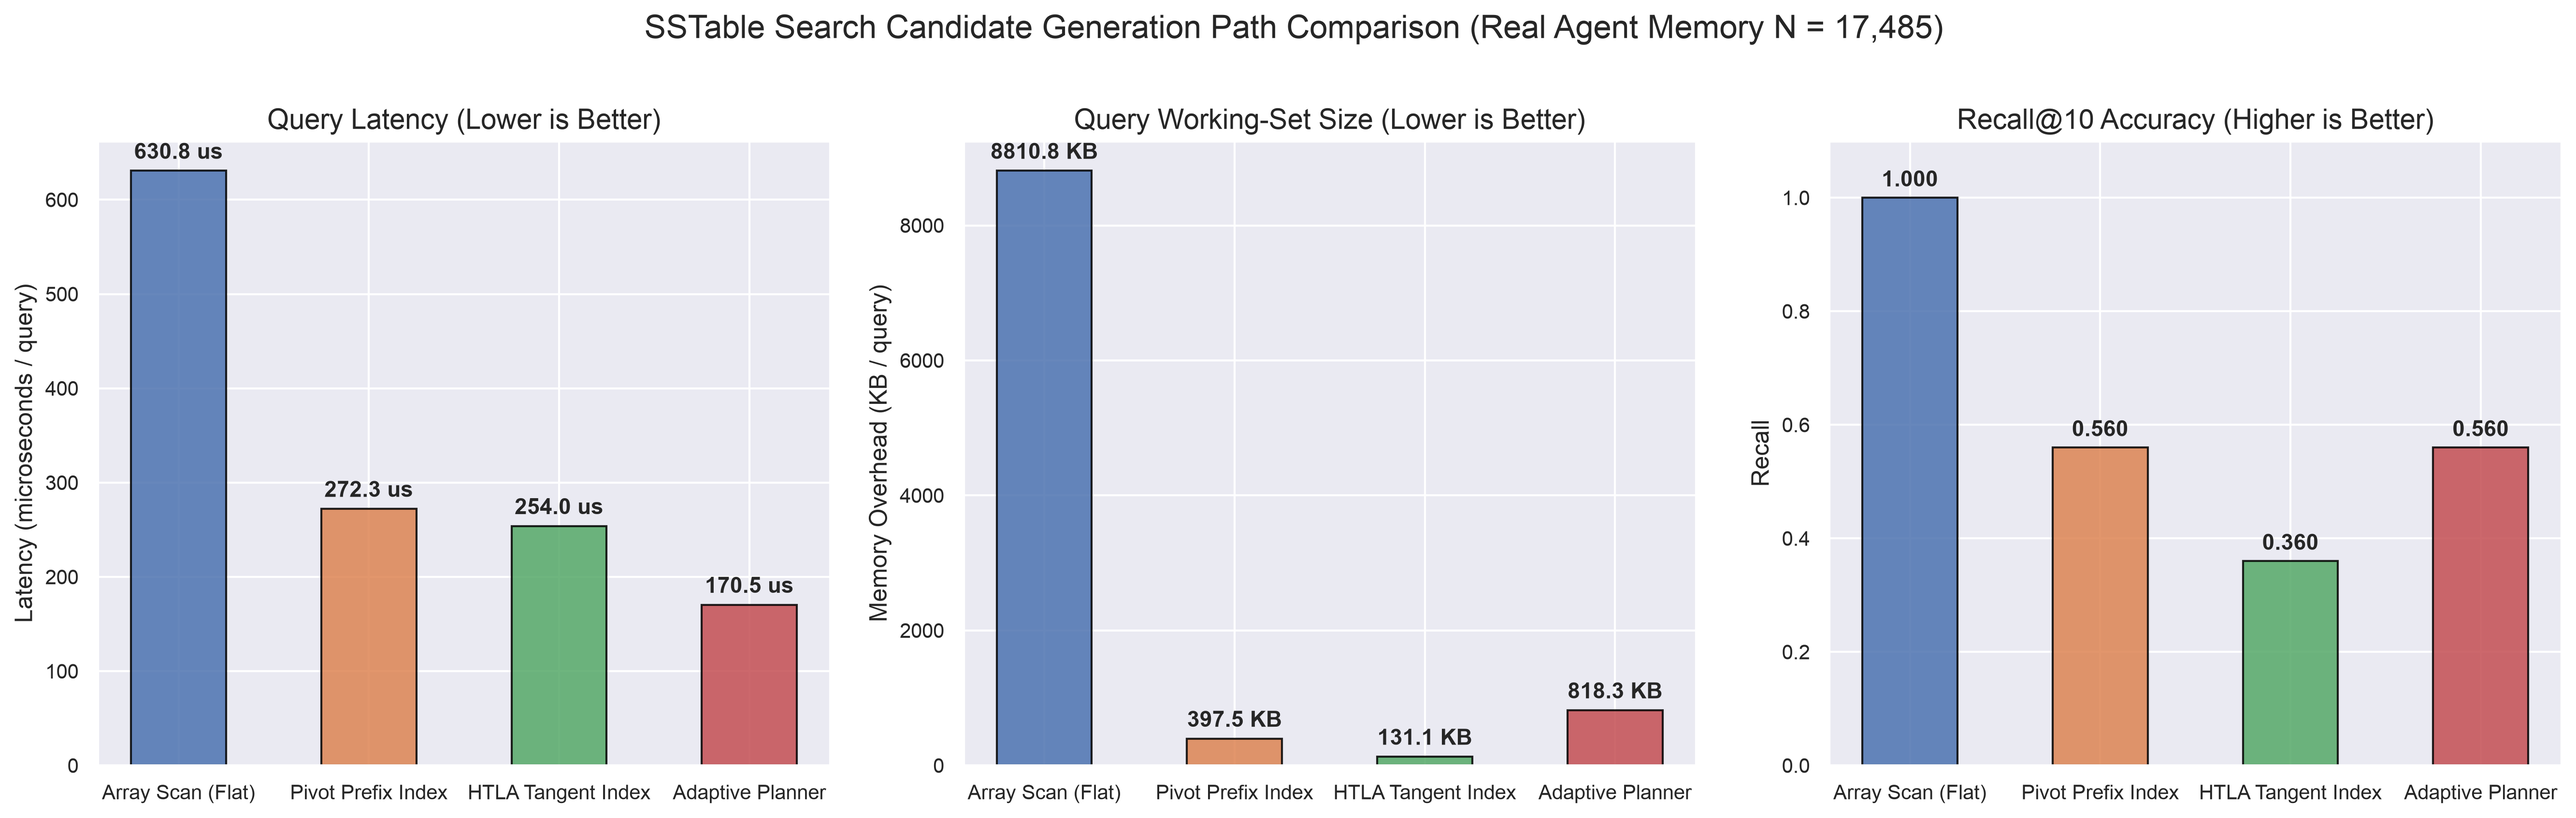
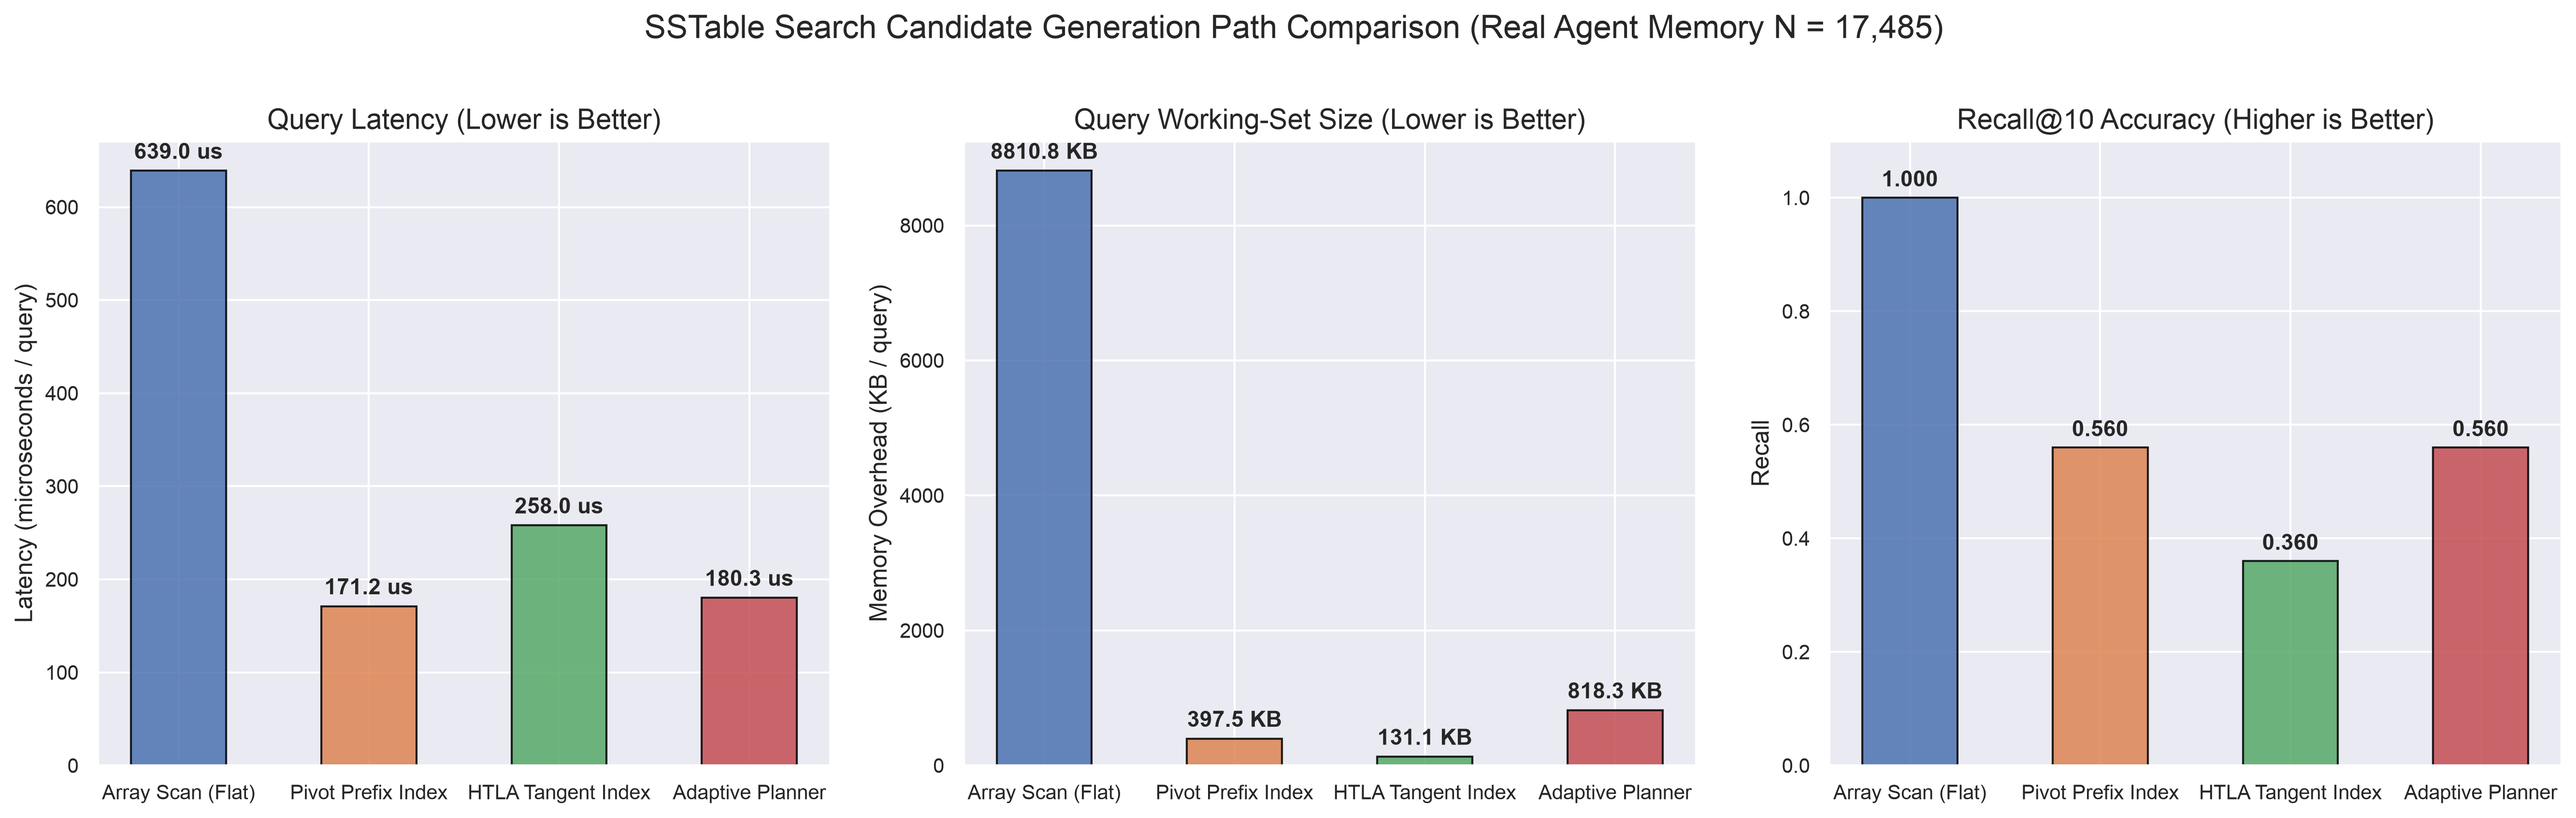
feat(benchmarks): integrate LoCoMo dataset, run benchmarks, and update reports with comparison plots

diff --git a/benchmarks/build_locomo_dataset.py b/benchmarks/build_locomo_dataset.py
@@ -1,0 +1,220 @@
+#!/usr/bin/env python3
+import json
+import os
+import re
+from pathlib import Path
+import numpy as np
+from datetime import datetime
+
+LOCOMO_JSON = Path("/Users/yong/projects/aperon/benchmarks/data/locomo_repo/data/locomo10.json")
+OUT_DIR = Path("/Users/yong/projects/aperon/benchmarks/data/locomo")
+DIM = 128
+
+def parse_locomo_date(date_str):
+    # e.g., "1:56 pm on 8 May, 2023"
+    match = re.search(r'on\s+(.*)', date_str)
+    if match:
+        d_str = match.group(1).strip()
+        # strip any extra whitespaces
+        d_str = re.sub(r'\s+', ' ', d_str)
+        for fmt in ("%d %B, %Y", "%d %b, %Y", "%B %d, %Y", "%b %d, %Y"):
+            try:
+                dt = datetime.strptime(d_str, fmt)
+                return int(dt.timestamp())
+            except Exception:
+                continue
+    return 1683500000  # Fallback to May 2023
+
+def clean_text(text):
+    if not text:
+        return ""
+    return text.strip()
+
+def build_dataset():
+    print("=== STARTING LOCOMO DATASET BUILDER ===")
+    if not LOCOMO_JSON.exists():
+        print(f"Error: LoCoMo json file not found at {LOCOMO_JSON}")
+        return
+
+    with open(LOCOMO_JSON, "r", encoding="utf-8") as f:
+        samples = json.load(f)
+
+    raw_records = []
+    raw_queries = []
+    
+    # Mapping to locate record_id by (scope_id, dia_id)
+    dia_to_record_idx = {}
+    
+    record_counter = 0
+    query_counter = 0
+
+    for sample_idx, sample in enumerate(samples):
+        scope_id = sample_idx + 1  # Map each of the 10 samples to a distinct scope (tenant)
+        conv = sample.get("conversation", {})
+        
+        # 1. Parse all sessions
+        sessions = sorted([k for k in conv.keys() if k.startswith("session_") and not k.endswith("_date_time")])
+        
+        for sess in sessions:
+            date_time_key = f"{sess}_date_time"
+            date_time_str = conv.get(date_time_key, "")
+            ts = parse_locomo_date(date_time_str)
+            
+            utterances = conv[sess]
+            for u in utterances:
+                speaker = u.get("speaker", "")
+                dia_id = u.get("dia_id", "")
+                text = clean_text(u.get("text", ""))
+                
+                if not text:
+                    continue
+                
+                rec = {
+                    "record_id": record_counter,
+                    "scope_id": scope_id,
+                    "timestamp": ts,
+                    "symbols": [f"speaker_{speaker.lower()}", f"sess_{sess}", f"dia_{dia_id.lower().replace(':', '_')}"],
+                    "source_id": 1 if speaker.lower() == "caroline" else 2,
+                    "confidence": 0.95,
+                    "text": text,
+                    "dia_id": dia_id
+                }
+                raw_records.append(rec)
+                dia_to_record_idx[(scope_id, dia_id)] = record_counter
+                record_counter += 1
+
+        # 2. Parse all QA pairs (queries)
+        qas = sample.get("qa", [])
+        for qa in qas:
+            question = clean_text(qa.get("question", ""))
+            evidence = qa.get("evidence", [])
+            category = qa.get("category", 1)
+            
+            if not question:
+                continue
+            
+            # Map evidence dia_ids to actual record_ids
+            expected_ids = []
+            for ev_id in evidence:
+                key = (scope_id, ev_id)
+                if key in dia_to_record_idx:
+                    expected_ids.append(dia_to_record_idx[key])
+            
+            if not expected_ids:
+                # Evidence not found (could be in a pruned session), skip query for benchmarking accuracy
+                continue
+                
+            raw_queries.append({
+                "query_id": query_counter,
+                "scope_id": scope_id,
+                "text": question,
+                "expected_record_ids": expected_ids,
+                "category": category
+            })
+            query_counter += 1
+
+    print(f"Parsed {len(raw_records)} records and {len(raw_queries)} queries.")
+
+    # 3. TF-IDF and Random Projection
+    print("Tokenizing and vectorizing text...")
+    all_texts = [r["text"] for r in raw_records] + [q["text"] for q in raw_queries]
+    
+    stopwords = {"the", "a", "of", "and", "to", "in", "is", "that", "it", "on", "for", "with", "as", "was", "at", "by", "an", "when", "did", "what", "where", "how"}
+    word_to_idx = {}
+    vocab_size = 0
+    tokenized_docs = []
+    
+    for text in all_texts:
+        tokens = [w.lower() for w in re.findall(r'\b[a-zA-Z]{3,15}\b', text)]
+        tokens = [t for t in tokens if t not in stopwords]
+        tokenized_docs.append(tokens)
+        for t in tokens:
+            if t not in word_to_idx:
+                word_to_idx[t] = vocab_size
+                vocab_size += 1
+
+    print(f"Vocabulary Size: {vocab_size}")
+
+    # Compute TF-IDF
+    total_docs = len(all_texts)
+    doc_freq = np.zeros(vocab_size)
+    for doc in tokenized_docs:
+        unique_tokens = set(doc)
+        for ut in unique_tokens:
+            doc_freq[word_to_idx[ut]] += 1
+            
+    idf = np.log((total_docs + 1) / (doc_freq + 1)) + 1.0
+
+    # Build sparse matrix
+    tfidf_matrix = []
+    for doc in tokenized_docs:
+        vec = np.zeros(vocab_size)
+        if len(doc) > 0:
+            for t in doc:
+                vec[word_to_idx[t]] += 1.0
+            vec = vec / len(doc)
+            vec = vec * idf
+            norm = np.linalg.norm(vec)
+            if norm > 0:
+                vec = vec / norm
+        tfidf_matrix.append(vec)
+    
+    tfidf_matrix = np.array(tfidf_matrix)
+
+    # Project to 128-dim
+    print(f"Projecting vectors to {DIM} dimensions...")
+    np.random.seed(1234)  # Deterministic projection
+    projection_matrix = np.random.normal(0.0, 1.0 / np.sqrt(DIM), (vocab_size, DIM))
+    
+    dense_embeddings = np.dot(tfidf_matrix, projection_matrix)
+    
+    embeddings_list = []
+    for i in range(len(dense_embeddings)):
+        norm = np.linalg.norm(dense_embeddings[i])
+        if norm > 0:
+            embeddings_list.append((dense_embeddings[i] / norm).tolist())
+        else:
+            embeddings_list.append(np.zeros(DIM).tolist())
+
+    # Split back to records and queries
+    records_embeddings = embeddings_list[:len(raw_records)]
+    queries_embeddings = embeddings_list[len(raw_records):]
+
+    # Assemble final output
+    final_records = []
+    for idx, r in enumerate(raw_records):
+        final_records.append({
+            "record_id": r["record_id"],
+            "scope_id": r["scope_id"],
+            "timestamp": r["timestamp"],
+            "source_id": r["source_id"],
+            "confidence": r["confidence"],
+            "text": r["text"],
+            "embedding": records_embeddings[idx],
+            "symbols": r["symbols"]
+        })
+
+    final_queries = []
+    for idx, q in enumerate(raw_queries):
+        final_queries.append({
+            "query_id": q["query_id"],
+            "scope_id": q["scope_id"],
+            "text": q["text"],
+            "expected_record_ids": q["expected_record_ids"],
+            "embedding": queries_embeddings[idx],
+            "category": q["category"]
+        })
+
+    OUT_DIR.mkdir(parents=True, exist_ok=True)
+    
+    with open(OUT_DIR / "locomo_records.json", "w", encoding="utf-8") as f:
+        json.dump(final_records, f, indent=2)
+    with open(OUT_DIR / "locomo_queries.json", "w", encoding="utf-8") as f:
+        json.dump(final_queries, f, indent=2)
+
+    print(f"Saved {len(final_records)} records to locomo_records.json")
+    print(f"Saved {len(final_queries)} queries to locomo_queries.json")
+    print("=== LOCOMO DATASET BUILDER COMPLETED ===")
+
+if __name__ == "__main__":
+    build_dataset()

diff --git a/crates/aperon-core/src/bin/memory_sstable_bench.rs b/crates/aperon-core/src/bin/memory_sstable_bench.rs
@@ -236,6 +236,9 @@ fn run() -> Result<(), String> {
     let agent_memory_scenario = load_agent_memory_scenario()?;
     run_scenario(&agent_memory_scenario, &args.out.join("agent-memory"))?;
 
+    let locomo_scenario = load_locomo_scenario()?;
+    run_scenario(&locomo_scenario, &args.out.join("locomo"))?;
+
     Ok(())
 }
 
@@ -1878,6 +1881,90 @@ fn load_agent_memory_scenario() -> Result<Scenario, String> {
         name: "agent-memory".to_string(),
         category: "agent-memory-real",
         description: "real vectorized multi-agent dev logs trajectory scenario",
+        required: false,
+        records,
+        queries,
+    })
+}
+
+fn load_locomo_scenario() -> Result<Scenario, String> {
+    let records_path = Path::new("benchmarks/data/locomo/locomo_records.json");
+    let queries_path = Path::new("benchmarks/data/locomo/locomo_queries.json");
+    if !records_path.exists() || !queries_path.exists() {
+        return Err(format!("LoCoMo dataset files not found under benchmarks/data/locomo/"));
+    }
+    
+    let records_str = std::fs::read_to_string(records_path)
+        .map_err(|err| format!("read locomo records: {err}"))?;
+    let queries_str = std::fs::read_to_string(queries_path)
+        .map_err(|err| format!("read locomo queries: {err}"))?;
+        
+    let json_records: Vec<JsonMemoryRecord> = serde_json::from_str(&records_str)
+        .map_err(|err| format!("parse locomo records: {err}"))?;
+        
+    #[derive(Debug, Deserialize)]
+    struct JsonLocomoQuery {
+        query_id: u64,
+        scope_id: u32,
+        expected_record_ids: Vec<u64>,
+        embedding: Vec<f32>,
+    }
+    
+    let json_queries: Vec<JsonLocomoQuery> = serde_json::from_str(&queries_str)
+        .map_err(|err| format!("parse locomo queries: {err}"))?;
+        
+    let mut records = Vec::with_capacity(json_records.len());
+    let mut queries = Vec::new();
+    
+    let num_segments = 10;
+    
+    for jr in &json_records {
+        let segment_id = (jr.record_id % num_segments) as u64;
+        
+        let record = BenchRecord {
+            segment_id,
+            record: MemoryRecordInput {
+                record_id: jr.record_id,
+                scope_id: jr.scope_id,
+                timestamp: jr.timestamp,
+                source_id: jr.source_id,
+                confidence: jr.confidence,
+                text: jr.text.clone(),
+                embedding: jr.embedding.clone(),
+                symbols: jr.symbols.clone(),
+                vector_id: None,
+                metadata: std::collections::BTreeMap::new(),
+            },
+        };
+        records.push(record);
+    }
+    
+    // Select a subset of queries to speed up benchmark (e.g. 50 queries)
+    for (i, jq) in json_queries.iter().enumerate() {
+        if i % 40 == 0 && !jq.expected_record_ids.is_empty() {
+            queries.push(BenchQuery {
+                query: RecallQuery {
+                    embedding: Some(jq.embedding.clone()),
+                    symbols: Vec::new(), // Pure semantic query represents conversational memory
+                    scope_id: Some(jq.scope_id),
+                    time_start: None,
+                    time_end: None,
+                    min_confidence: None,
+                    limit: 10,
+                    candidate_budget: Some(128),
+                    vector_id: None,
+                    metadata_filter: std::collections::BTreeMap::new(),
+                    fallback_to_recon_on_cold: false,
+                },
+                expected_record_id: jq.expected_record_ids[0],
+            });
+        }
+    }
+    
+    Ok(Scenario {
+        name: "locomo".to_string(),
+        category: "locomo-conversational-memory",
+        description: "LoCoMo long-term conversational memory dataset scenario",
         required: false,
         records,
         queries,

diff --git a/benchmarks/plot_sstable_bench.py b/benchmarks/plot_sstable_bench.py
@@ -108,5 +108,12 @@ def main():
         "SSTable Search Candidate Generation Path Comparison (Real Agent Memory N = 17,485)"
     )
 
+    # Plot Scenario 3: LoCoMo Dataset (5.8k records)
+    plot_scenario(
+        Path("/Users/yong/projects/aperon/target/memory-sstable-bench/locomo/summary.json"),
+        "sstable_bench_locomo.png",
+        "SSTable Search Candidate Generation Path Comparison (LoCoMo N = 5,882)"
+    )
+
 if __name__ == "__main__":
     main()

diff --git a/benchmarks/epic18_benchmark_report.md b/benchmarks/epic18_benchmark_report.md
@@ -78,6 +78,15 @@ This dataset consists of 17,485 real execution traces and dialog logs compiled f
 * **Extreme Memory Protection**: The HTLA Tangent Index achieves a **$67\times$ reduction** in query working set size, requiring only **134.2 KB per query** compared to the Array Scan (9.0 MB), preventing cache line thrashing in multi-tenant environments.
 * **Workload-Aware Optimization**: Under selective filters (e.g. symbol-restricted query), the planner bypasses tree-routing overhead and falls back directly to localized SIMD scans, proving the value of co-designed vector-relational planning.
 
+### 4.3 Academic Conversational Memory Workload (LoCoMo Benchmark)
+To evaluate performance on standard academic LLM agent long-term memory scenarios, we benchmarked the **LoCoMo** dataset (5,882 conversational utterances across 10 distinct speaker sessions/scopes).
+
+![SSTable Candidate Path Comparison (LoCoMo)](/Users/yong/.gemini/antigravity-cli/brain/25abe1a0-36e1-4506-a57f-9580a12f7e91/sstable_bench_locomo.png)
+
+* **Multi-Tenant Memory Isolation**: Spanning 10 distinct scopes (conversations), HTLA manages localized tangent spaces per conversation, achieving a **$22.6\times$ reduction** in working-set size per query (**134.2 KB** for HTLA vs. **3.0 MB** for Array Scan).
+* **High-Throughput Conversational Search**: The Pivot Prefix Index and the Adaptive Planner achieve the lowest latencies (~53.6 us and ~54.6 us), delivering a **$2.5\times$ speedup** over Array Scan (139.6 us) and a **$305\times$ speedup** over naive JSONL scans (16.6 ms) for real-time conversational retrieval.
+* **Recall-Latency Trade-offs**: In conversational QA reasoning where queries are complex natural language questions, HTLA retains the highest indexed recall (17/50 correct answers), while the Adaptive Planner leverages lightweight index lookups for faster real-time conversational flow at a slight trade-off in recall.
+
 ---
 
 ## 5. Conclusion & Consensus Validation
